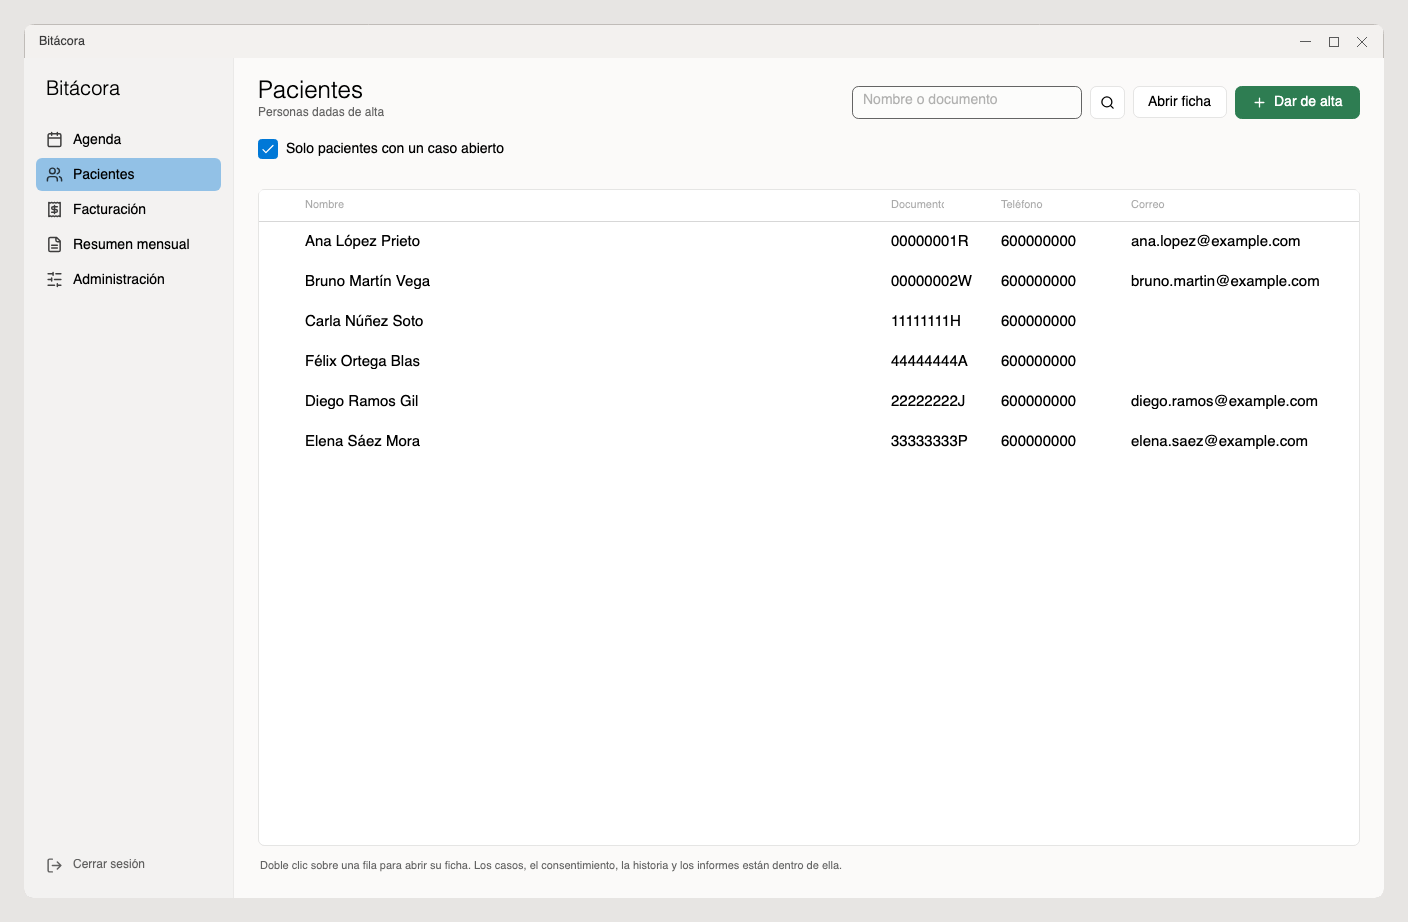
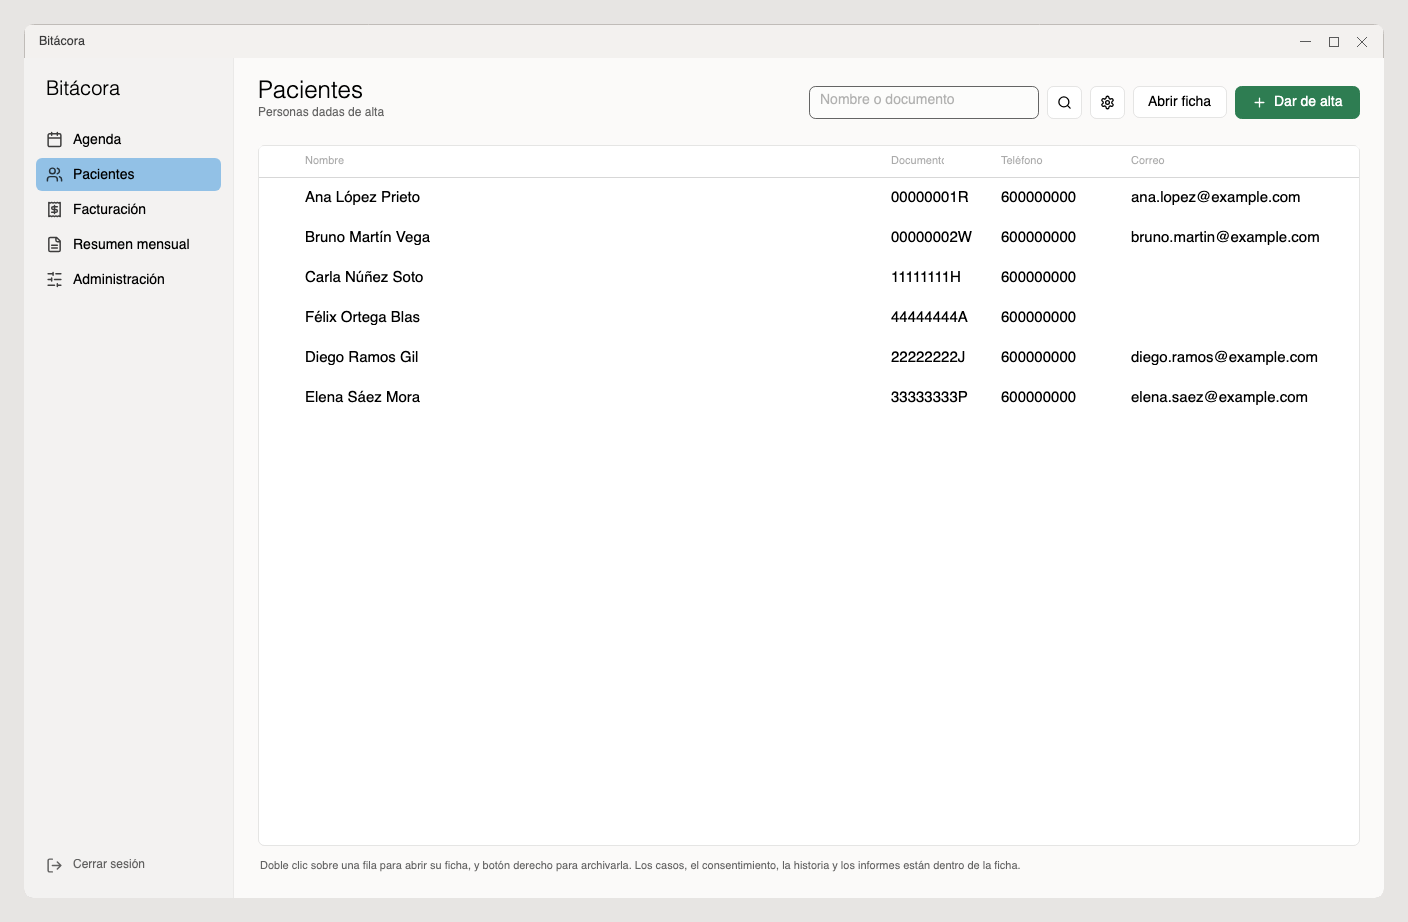
Actualizar la web para 0.1.11

diff --git a/MANUAL.md b/MANUAL.md
@@ -184,6 +184,34 @@ arranque, [Crear la consulta](#2-crear-la-consulta-solo-la-primera-vez))
 cargando el archivo de credenciales `client_secret.json`. Se abre el navegador,
 se acepta con la cuenta de la consulta, y ya queda.
 
+**El icono de la nube.** Arriba en la barra lateral, junto a «Bitácora», hay un
+icono que dice cómo está la conexión, estés en la sección que estés:
+
+- **Gris**: hay internet y Google funciona.
+- **Ámbar** (nube tachada): hay internet, pero Google no está operativo — la
+  cuenta está sin conectar, hay que volver a conectarla o Google no responde.
+- **Rojo** (wifi tachada): no hay internet.
+
+Al pulsarlo se ve el detalle —Internet, Calendar y Meet, Drive— con dos botones:
+**Comprobar ahora** e **Ir a Conexiones**, que lleva a la pestaña donde se conecta
+la cuenta. Si dice «Hay que volver a conectar», es que Google ha retirado el
+permiso (pasa al cambiar la contraseña de la cuenta): basta con pulsar otra vez
+**Conectar con Google**.
+
+**Si se va la conexión.** Al perderla —o al abrir la aplicación sin ella— sale
+una franja encima de la sección con lo que no va a funcionar mientras dure:
+lo que se agende, mueva o cancele no llegará a Google Calendar, no se pueden
+crear enlaces de Meet ni enviar correos, y las copias no suben a Drive. Se
+cierra con el aspa y no vuelve a salir hasta el siguiente corte; cuando vuelve
+la conexión se va sola.
+
+Se puede seguir trabajando: todo se guarda en el ordenador. Una sesión que se
+agenda, se mueve o se cancela sin conexión queda **marcada** en su detalle de la
+agenda («El último cambio de esta sesión no ha llegado a Google Calendar»).
+Cuando vuelva la conexión, **Pasar a Google Calendar** la deja al día. Lo único
+que no se puede hacer sin conexión es agendar una sesión **con Meet**: el enlace
+lo crea Google.
+
 **Qué ve Google y qué no.** En el calendario solo aparece una etiqueta del tipo
 `Sesión · AR-3f9c1b`: nunca el nombre del paciente ni el motivo. El paciente no
 se añade como invitado del evento. Las copias que suben a Drive van cifradas:
@@ -269,12 +297,43 @@ texto de fábrica solo dice día, hora y enlace.
 Cinco secciones a la izquierda: **Agenda**, **Pacientes**, **Facturación**,
 **Resumen mensual** y **Administración**.
 
-![Listado de pacientes, con el filtro de casos abiertos y los botones de Abrir ficha y Dar de alta](imagenes/pacientes.png)
+![Listado de pacientes, con la rueda de lo que se enseña y los botones de Abrir ficha y Dar de alta](imagenes/pacientes.png)
 
 En la primera columna del listado aparece una **tarta** junto a quien cumple años
 ese día, para poder felicitarle al entrar por la puerta. Sale solo el día del
 cumpleaños y no hace nada más: no cambia la ficha ni avisa a nadie. A quien nació
 un 29 de febrero se le marca el 28 los años que no son bisiestos.
+
+### Qué se enseña en el listado
+
+De entrada, **Pacientes** enseña solo a quien tiene un caso abierto: lo normal es
+buscar a alguien que está en terapia, no repasar a todos los que han pasado por la
+consulta. El botón de la **rueda dentada**, junto a la lupa, despliega dos casillas
+que añaden más gente a la lista:
+
+- **Pacientes sin caso abierto**: quien está dado de alta pero no tiene ninguna
+  terapia en curso, porque terminó o porque todavía no se le ha abierto el caso.
+- **Pacientes archivados**: las fichas archivadas (ver abajo), tengan caso abierto
+  o no. Salen con una **caja** en la primera columna para distinguirlas.
+
+A diferencia de las de la agenda, estas dos casillas no se recuerdan: cada vez que
+se abre la aplicación el listado vuelve a empezar por la gente en terapia.
+
+### Archivar una ficha
+
+Con los años se acumulan fichas de gente que ya no viene y que estorba al buscar.
+**Botón derecho** sobre su fila → **Archivar**, y deja de salir en el listado.
+
+Archivar es solo una manera de ordenar la lista. No cierra sus casos, no borra
+nada, no le quita el correo y no tiene nada que ver con **suprimir** la ficha, que
+es el derecho del RGPD y va por otro sitio. Por eso no pide confirmación: se
+deshace igual de rápido. Para volver a verla, se marca **Pacientes archivados** en
+la rueda; y sobre su fila, el mismo botón derecho ofrece **Desarchivar**.
+
+Si alguien archivado vuelve a terapia, basta con abrirle un caso (o reabrir el que
+tenía): sale solo del archivo, para que no quede escondido justo cuando más se le
+busca. Y si se intenta darlo de alta otra vez, la ventana avisa de que ya existe y
+de que su ficha está archivada.
 
 ### Dar de alta a un paciente
 
